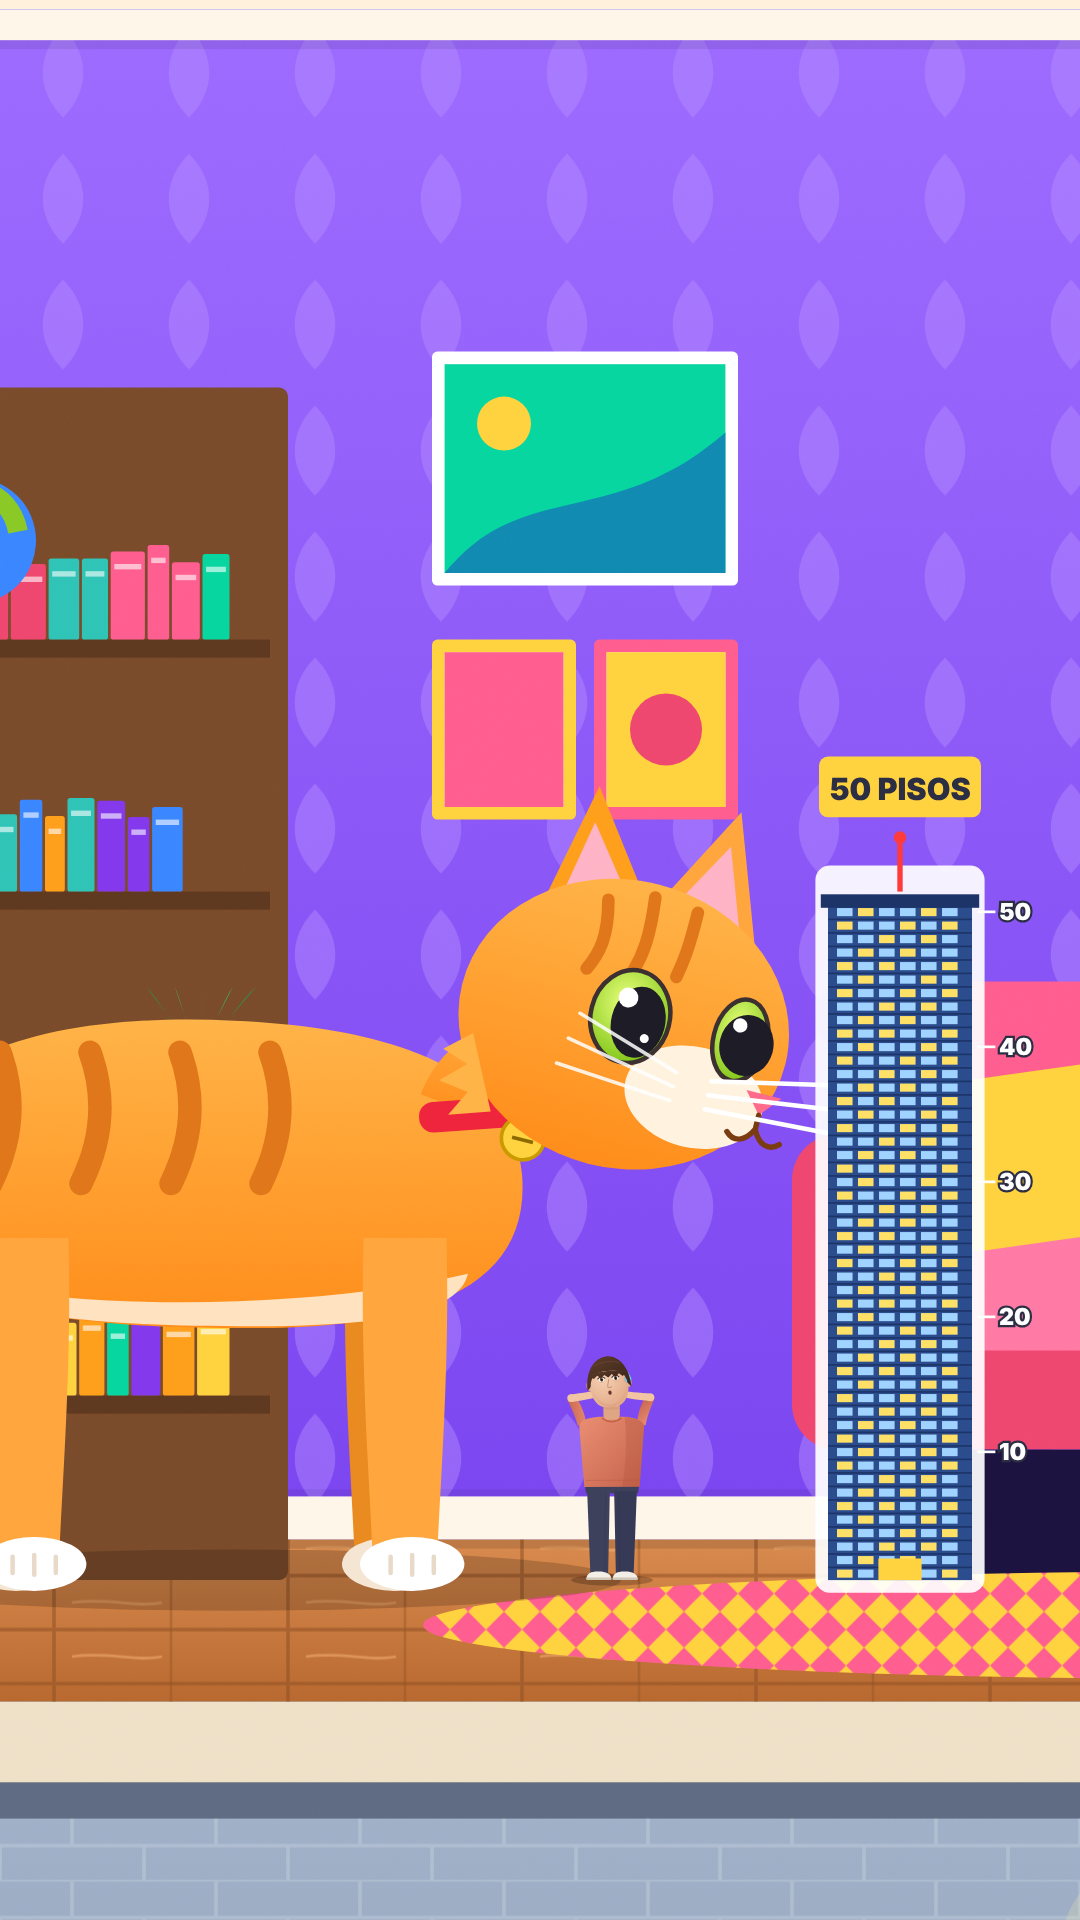
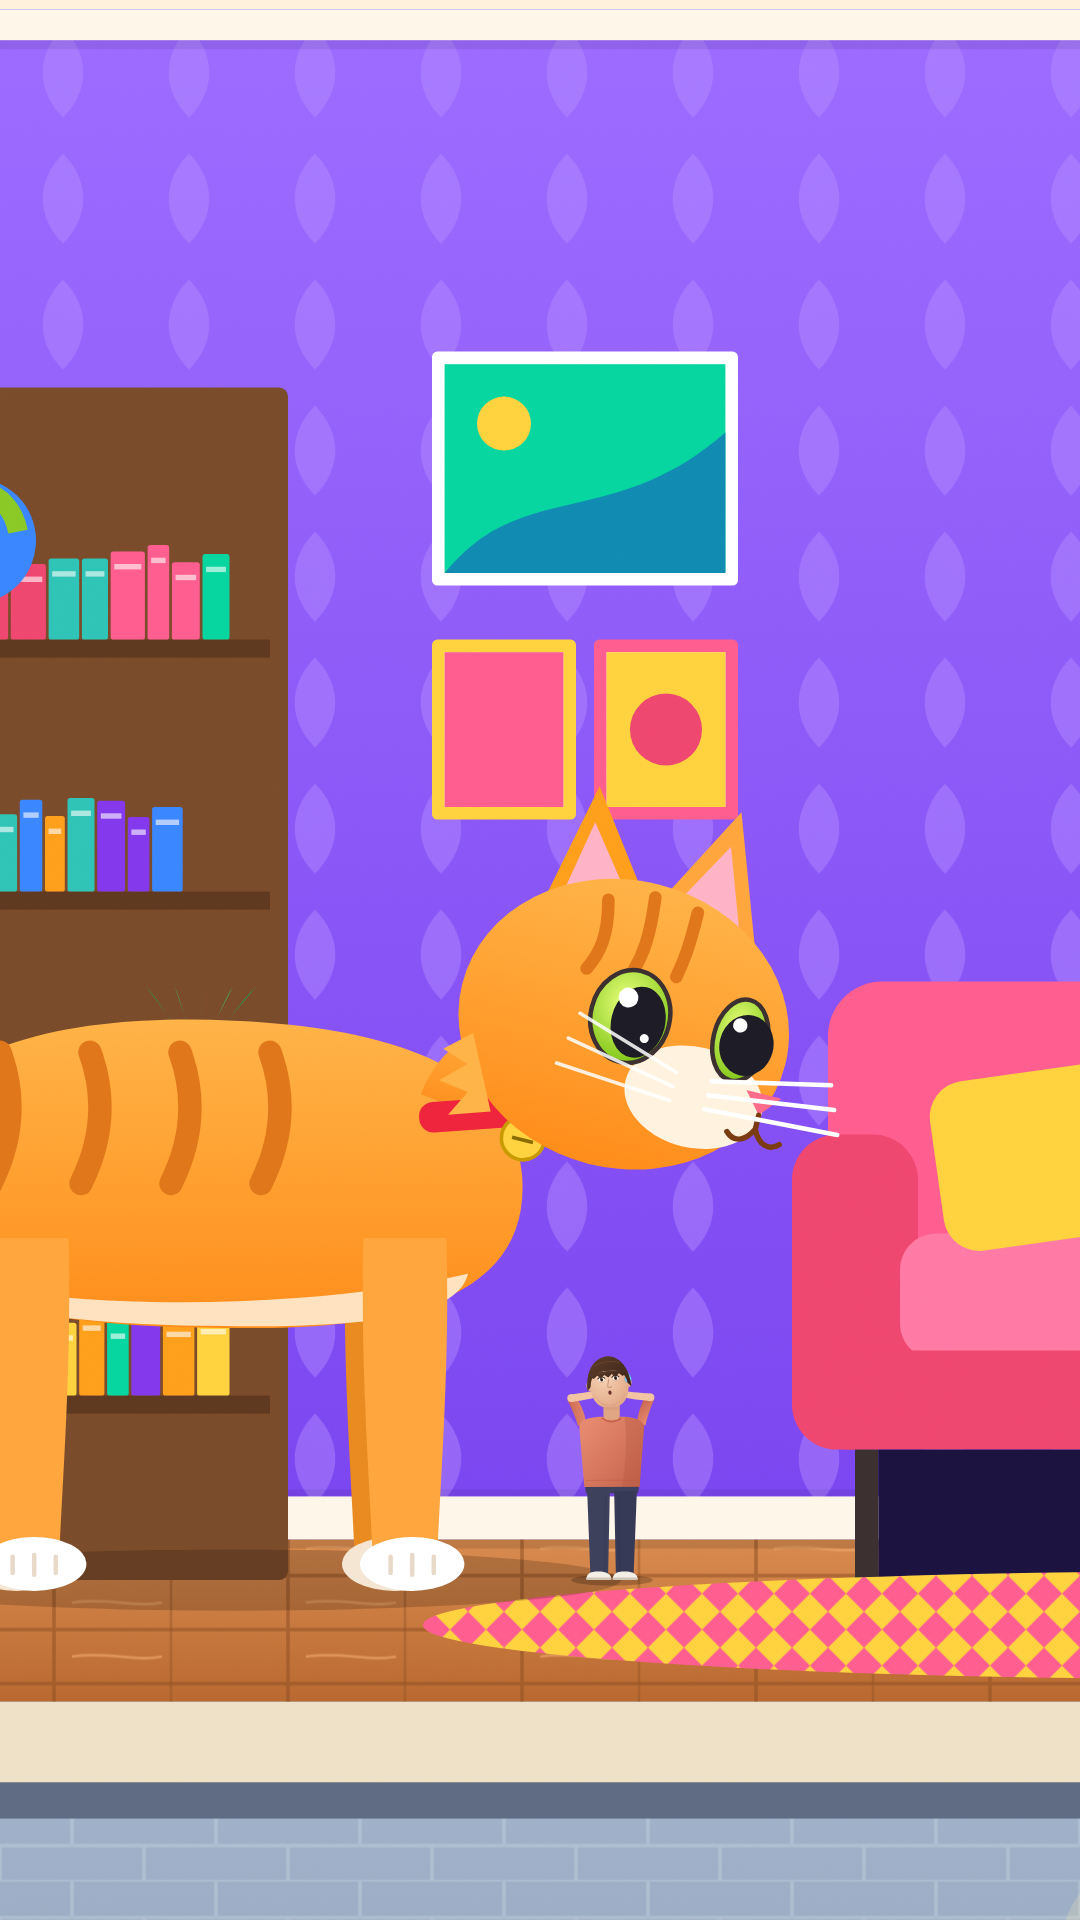
Hormiga: miniatura más sencilla (fondo apagado, protagonistas a color)
Claude-Session: https://claude.ai/code/session_01FgZK39uRFBPnhEWyncataL

Changed region(s): [[0.7333, 0.375, 0.9778, 0.8438]]

diff --git a/quiz-video/animado/hormiga2/miniatura/hacer.js b/quiz-video/animado/hormiga2/miniatura/hacer.js
@@ -13,7 +13,7 @@ const path = require('path');
     const z = 0.9, cx = 10680, cy = 1056;
     gsap.set('#world', { x: 540 - cx * z, y: 960 - cy * z, scale: z });
     gsap.set('#camA', { scale: 1, rotation: 0 }); gsap.set('#camB', { scale: 1, rotation: 0 });
-    gsap.set('#edif', { x: 0, opacity: 1, scaleY: 1 });
+    gsap.set('#edif', { opacity: 0 });
     gsap.set('#p5-w', { x: -40, scale: 0.24 }); gsap.set('#p5', { opacity: 1 }); gsap.set('#p5-perf', { opacity: 0 });
     gsap.set('#p5-eyes', { scaleY: 1.35, svgOrigin: '500 742' }); gsap.set('#p5-mouthO', { opacity: 1 }); gsap.set('#p5-mouth', { opacity: 0 });
     gsap.set('#p5-armLg', { rotation: 150, svgOrigin: '356 985' }); gsap.set('#p5-armRg', { rotation: -150, svgOrigin: '644 985' });
@@ -22,11 +22,20 @@ const path = require('path');
   });
   await p.waitForTimeout(400);
   await p.screenshot({ path: dir + '/miniatura/_fondo.png' });
+  // segunda captura: SOLO el gato y el personaje (fondo transparente) para ponerlos a todo color sobre el fondo apagado
+  await p.evaluate(() => {
+    document.body.style.background = 'transparent'; document.documentElement.style.background = 'transparent';
+    for (const s of ['#fondo', '#grano', '#vineta', '#noche']) { const e = document.querySelector(s); if (e) e.style.visibility = 'hidden'; }
+    for (const e of document.querySelectorAll('#world > *')) { if (!['gato', 'p5-w'].includes(e.id)) e.style.visibility = 'hidden'; }
+  });
+  await p.waitForTimeout(300);
+  await p.screenshot({ path: dir + '/miniatura/_figuras.png', omitBackground: true });
   // posición en pantalla del personaje (para el círculo y la flecha)
   const r = await p.evaluate(() => { const e = document.querySelector('#p5-w').getBoundingClientRect(); return { x: e.x + e.width / 2, y: e.y + e.height * 0.62 }; });
   const html = `<!doctype html><html><head><meta charset="utf-8"><style>
   *{margin:0;padding:0;box-sizing:border-box} body{width:1080px;height:1920px;overflow:hidden;font-family:Inter,sans-serif}
-  #bg{position:absolute;inset:0;background:url('file://${dir}/miniatura/_fondo.png')}
+  #bg{position:absolute;inset:0;background:url('file://${dir}/miniatura/_fondo.png');filter:saturate(0.35) brightness(0.62)}
+  #fig{position:absolute;inset:0;background:url('file://${dir}/miniatura/_figuras.png')}
   #sombra{position:absolute;left:0;right:0;top:0;height:760px;background:linear-gradient(rgba(20,8,60,0.85),rgba(20,8,60,0.55) 60%,rgba(20,8,60,0))}
   #vig{position:absolute;inset:0;background:radial-gradient(120% 80% at 50% 55%, rgba(0,0,0,0) 60%, rgba(10,0,40,0.45) 100%)}
   h1{position:absolute;left:0;right:0;top:300px;text-align:center;color:#fff;font:900 104px/1 Inter;letter-spacing:-0.02em;
@@ -34,17 +43,17 @@ const path = require('path');
   #mm{position:absolute;left:0;right:0;top:405px;text-align:center;font:900 250px/1 Inter;letter-spacing:-0.04em;color:#ffd23f;
      -webkit-text-stroke:16px #1b0b45;paint-order:stroke fill;text-shadow:0 16px 0 #1b0b45;transform:rotate(-4deg)}
   #sub{position:absolute;left:0;right:0;top:660px;text-align:center;font:900 64px/1 Inter;color:#fff;-webkit-text-stroke:8px #1b0b45;paint-order:stroke fill}
-  #aro{position:absolute;width:300px;height:300px;border-radius:50%;border:14px solid #ff3b5c;box-shadow:0 0 0 8px #fff, 0 0 40px rgba(255,59,92,0.8)}
-  #tu{position:absolute;padding:10px 30px;border-radius:26px;background:#ffd23f;color:#1b0b45;font:900 72px Inter;box-shadow:0 10px 0 #1b0b45;transform:rotate(-6deg)}
+  #aro{position:absolute;width:280px;height:280px;border-radius:50%;border:10px solid #ffffff}
+  #tu{position:absolute;padding:6px 26px;border-radius:22px;background:#ffffff;color:#1b0b45;font:900 64px Inter}
   #flecha{position:absolute;overflow:visible}
   #pegatina{position:absolute;left:600px;top:1470px;padding:18px 30px;border-radius:24px;background:#ff3b5c;color:#fff;font:900 54px/1.05 Inter;
      transform:rotate(5deg);box-shadow:0 12px 0 #1b0b45;border:6px solid #fff;text-align:center}
   #marca{position:absolute;left:0;right:0;top:1650px;text-align:center;font:800 30px Inter;color:#fff;opacity:0.7;text-shadow:0 2px 8px rgba(0,0,0,0.6)}
-  </style></head><body><div id="bg"></div><div id="vig"></div><div id="sombra"></div>
+  </style></head><body><div id="bg"></div><div id="vig"></div><div id="sombra"></div><div id="fig"></div>
   <h1>¿Y SI MIDES</h1><div id="mm">3 mm?</div><div id="sub">EN TU PROPIA CASA</div>
-  <div id="aro" style="left:${r.x - 150}px;top:${r.y - 150}px"></div>
+  <div id="aro" style="left:${r.x - 140}px;top:${r.y - 140}px"></div>
   <div id="tu" style="left:${r.x - 380}px;top:${r.y - 260}px">TÚ</div>
-  <svg id="flecha" width="10" height="10" style="left:${r.x - 250}px;top:${r.y - 150}px"><path d="M0,0 C40,10 70,30 90,60" stroke="#ffd23f" stroke-width="16" fill="none" stroke-linecap="round"/><path d="M58,62 L94,66 L92,28" stroke="#ffd23f" stroke-width="16" fill="none" stroke-linecap="round" stroke-linejoin="round"/></svg>
+  <svg id="flecha" width="10" height="10" style="left:${r.x - 250}px;top:${r.y - 150}px"><path d="M0,0 C40,10 70,30 90,60" stroke="#ffffff" stroke-width="14" fill="none" stroke-linecap="round"/><path d="M58,62 L94,66 L92,28" stroke="#ffffff" stroke-width="16" fill="none" stroke-linecap="round" stroke-linejoin="round"/></svg>
   
   <div id="marca">@mundo.supuesto</div></body></html>`;
   await p.setContent(html); await p.waitForTimeout(600);

diff --git a/quiz-video/animado/INSTRUCCIONES.md b/quiz-video/animado/INSTRUCCIONES.md
@@ -70,6 +70,8 @@ Haz SIEMPRE `git pull` antes de empezar y `git commit` + `git push` al acabar.
   con expresión exagerada, el objeto/peligro gigante, título enorme de 2-4 palabras con contorno y sombra, colores
   vivos y contraste alto, flechas/círculos que guíen la mirada, profundidad (primer plano, plano medio, fondo).
   Todo lo importante dentro de 300-1620 px de alto.
+  SIN SATURAR (usuario, 02-11-2026: «un pelín más sencilla, se satura con tanto color»): fondo apagado y desaturado,
+  solo los protagonistas a todo color, título blanco + un color, y como mucho un aro y una etiqueta sencillos.
 - Si el usuario dice «si me quedo sin tokens déjalo pendiente»: guardar el estado en `COMO-REHACERLO.md` del
   proyecto y retomar el trabajo en cuanto se pueda, sin pedir autorización.
 
